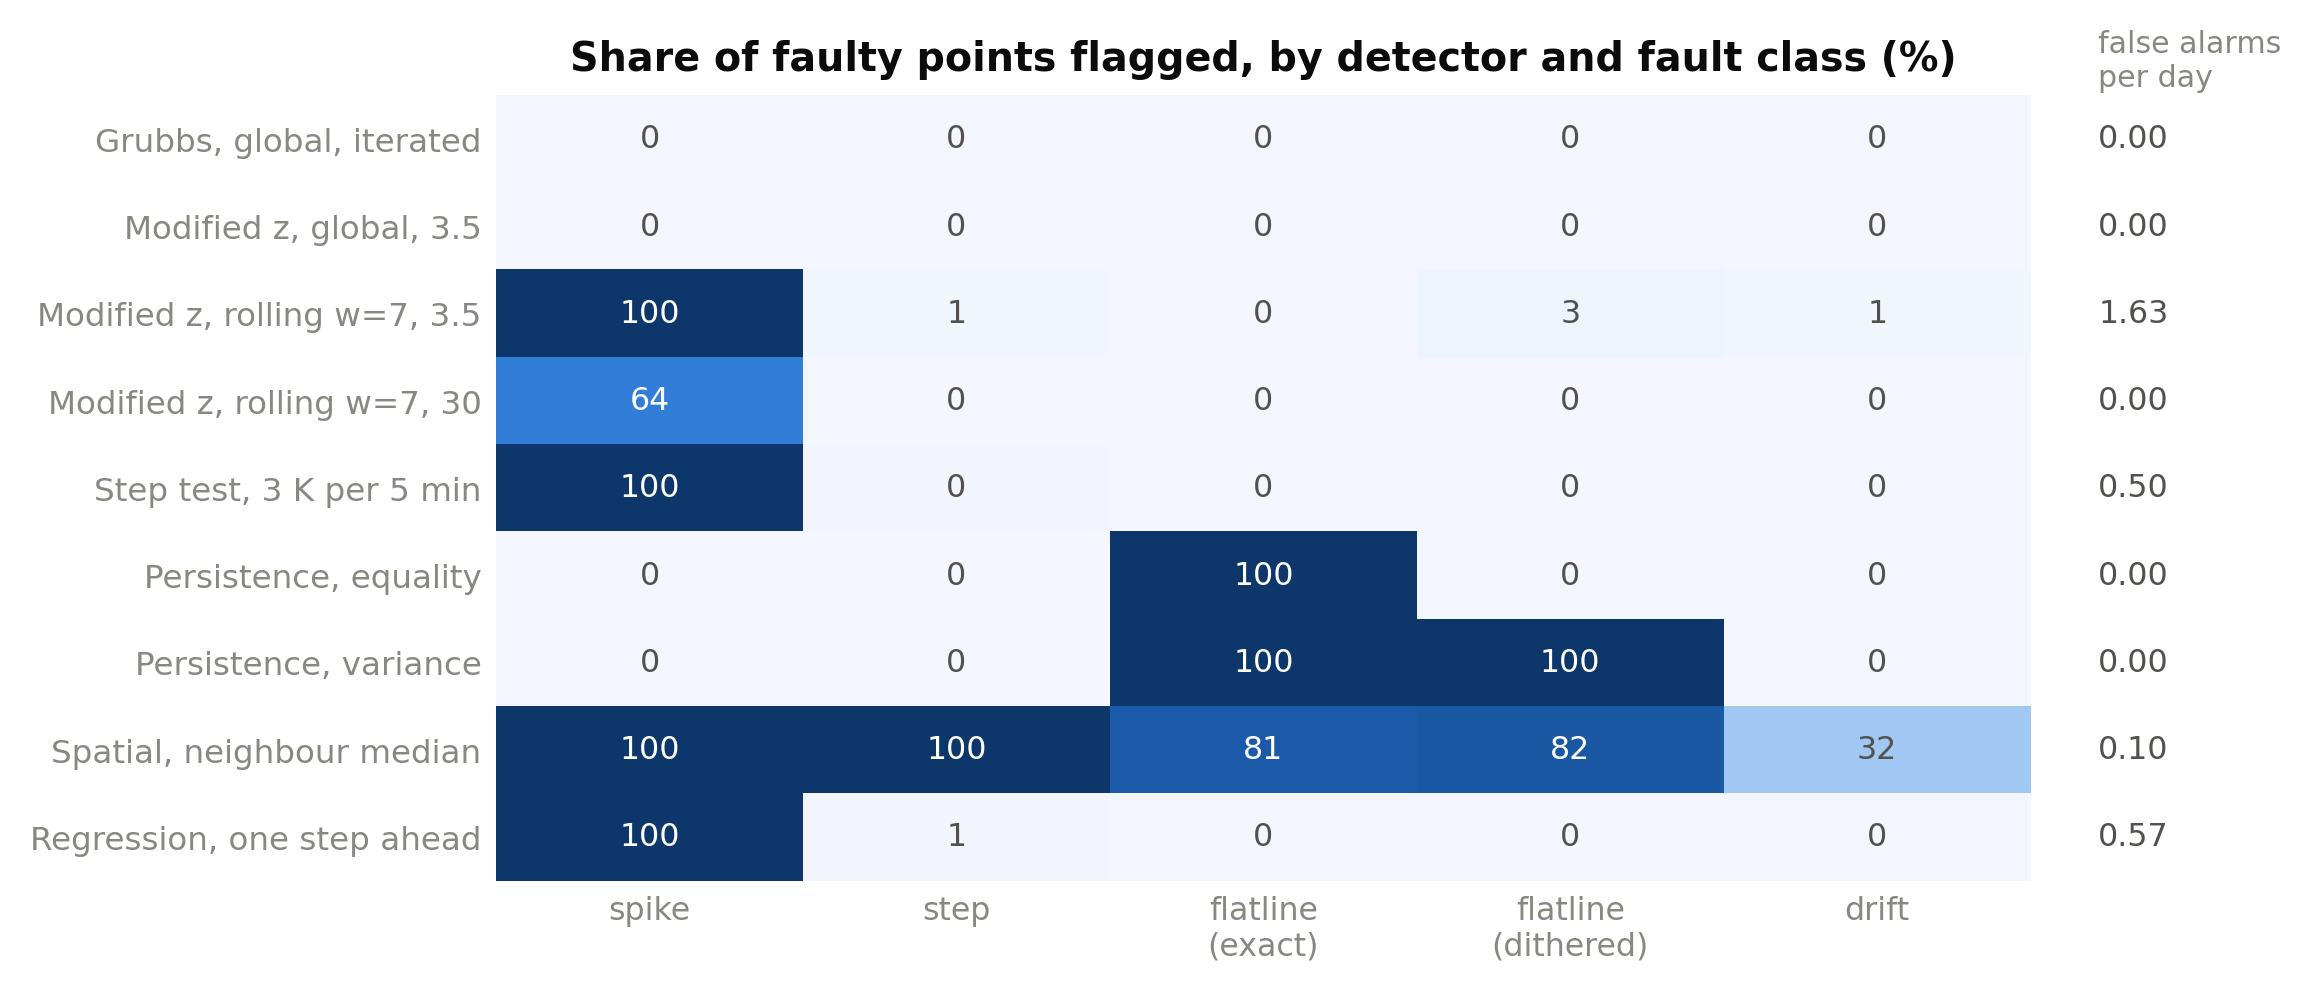
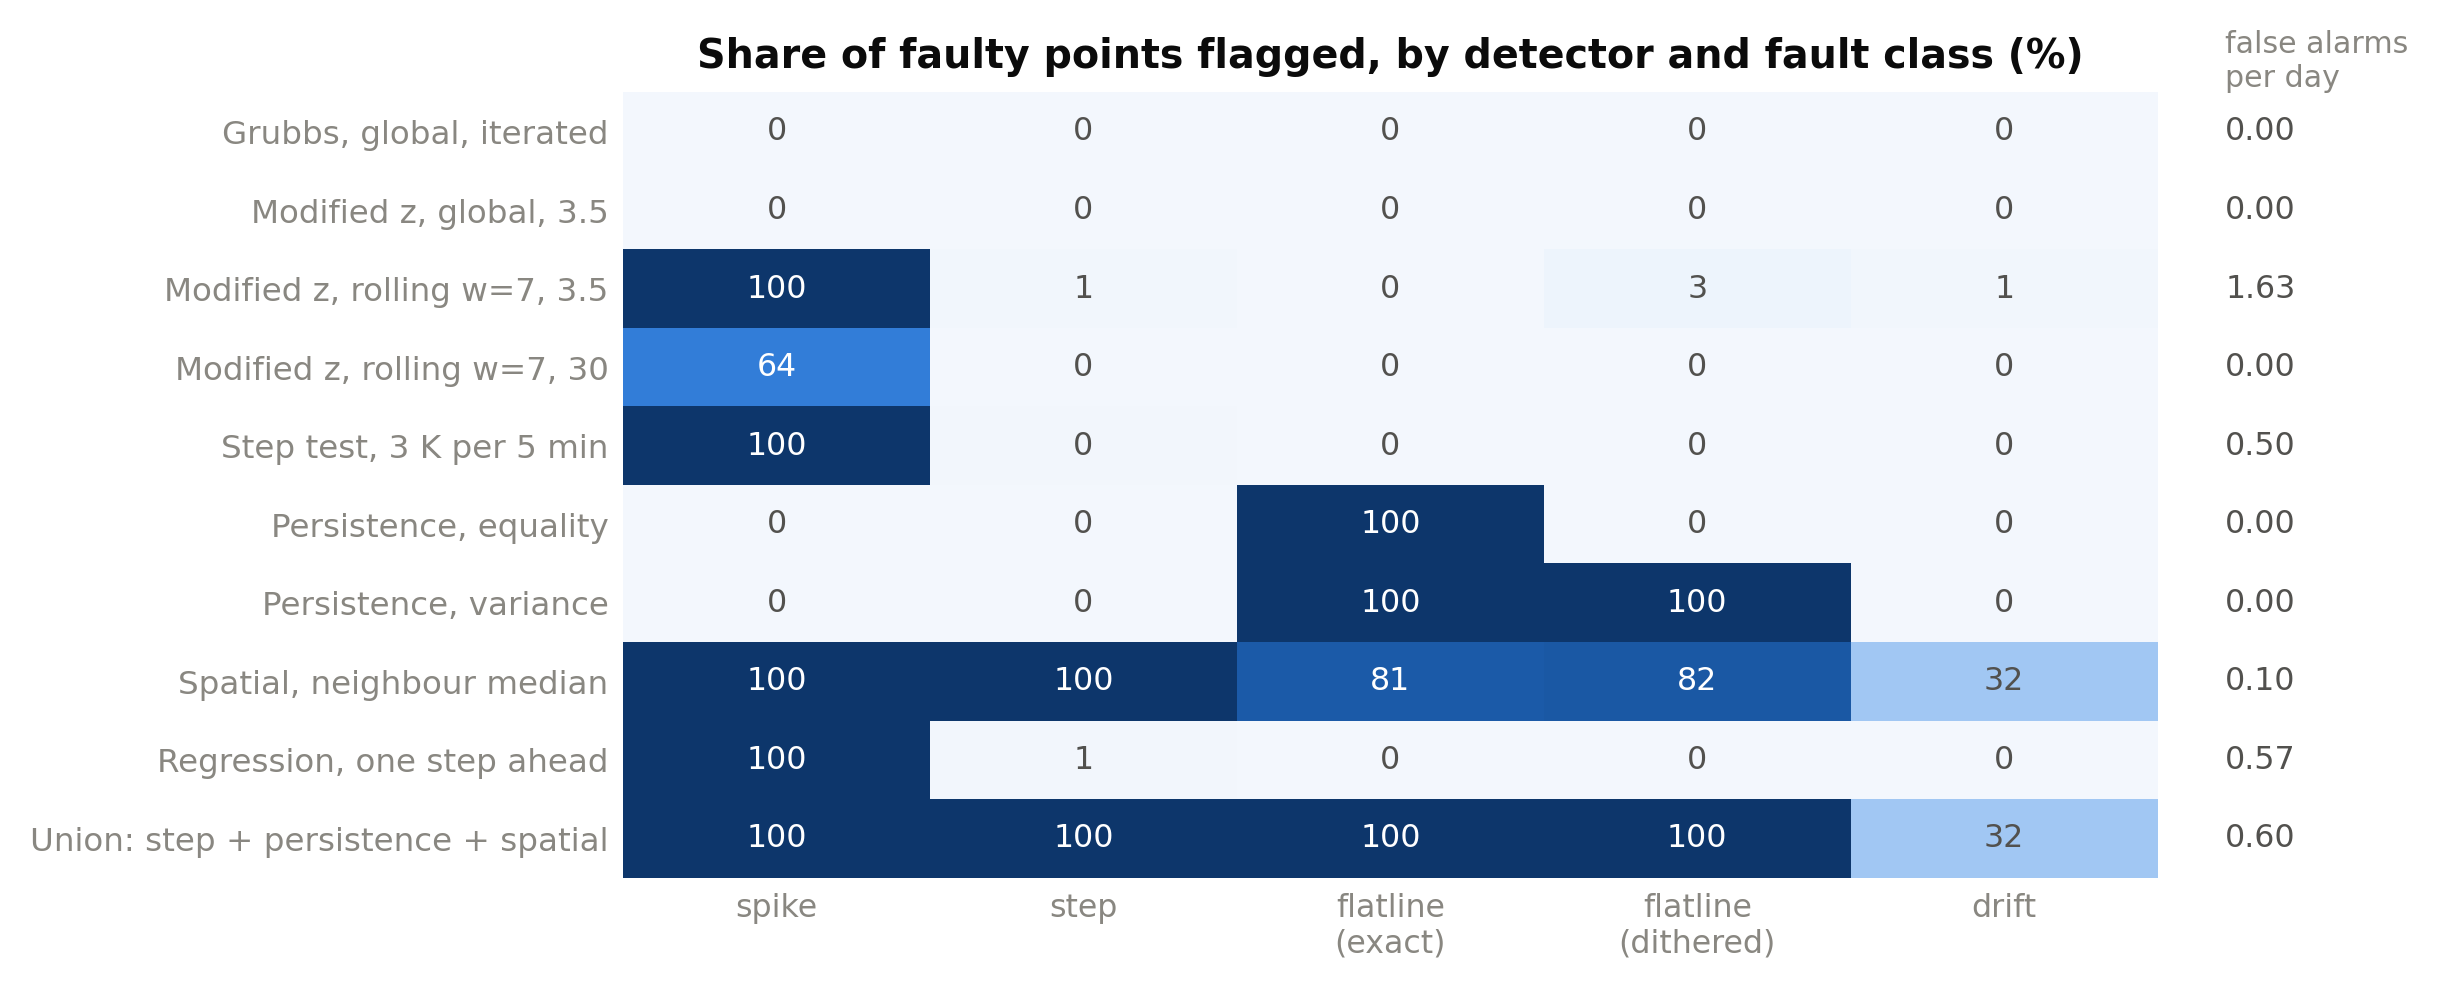
Add the union battery row, which beats every single detector

diff --git a/code/experiments.py b/code/experiments.py
@@ -253,6 +253,13 @@ def tolerant_hits(flags, mask, tol=1):
         conv[s:] |= flags[:-s]
     return conv & mask
 
+# the union battery: one representative of each complementary family
+detectors["Union: step + persistence + spatial"] = (
+    detectors["Step test, 3 K per 5 min"]
+    | detectors["Persistence, variance"]
+    | detectors["Spatial, neighbour median"]
+)
+
 results = {}
 days = N / 288
 for name, fl in detectors.items():
